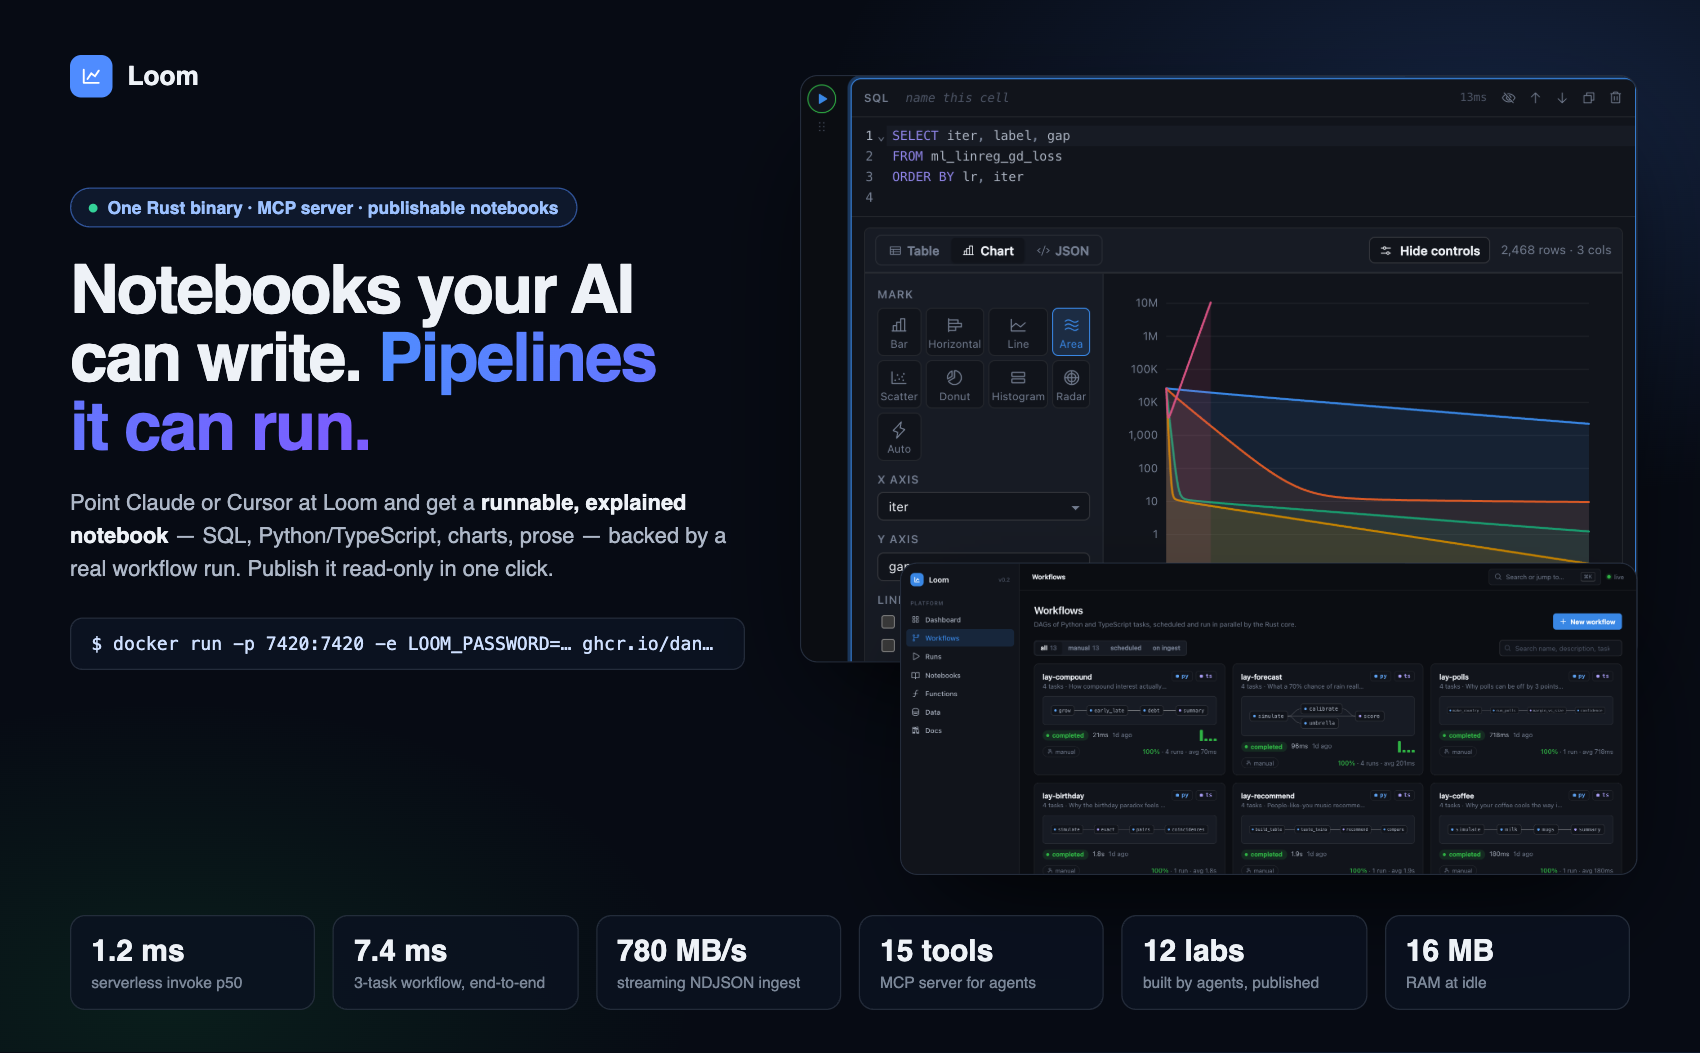
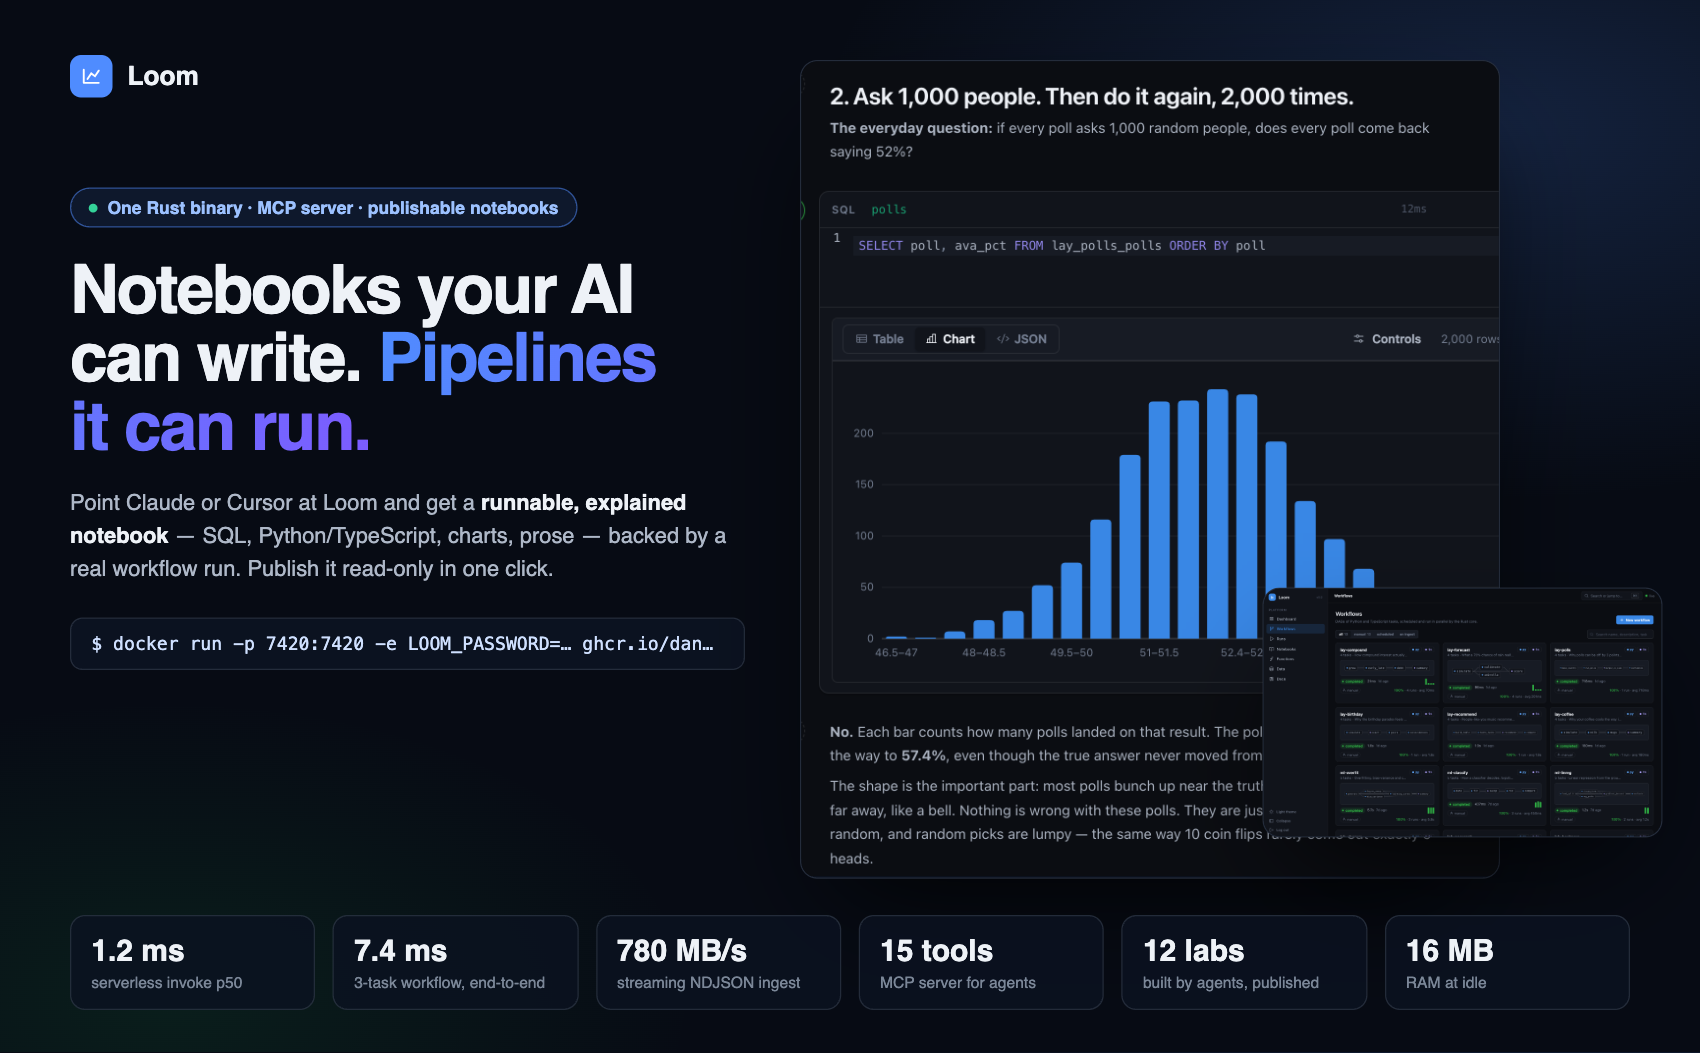
drop the gradient-descent area chart everywhere; hero/landing use the polls bell-curve chunk, README adds the compound-interest chunk

diff --git a/site/index.html b/site/index.html
@@ -264,8 +264,8 @@ footer .right{margin-left:auto;display:flex;gap:18px}
       <figcaption><b>Math → code → proof.</b> The backprop lab walks the chain rule in markdown, does the five steps in a Python cell, and checks ∂L/∂W against a finite difference — absolute error 0.</figcaption>
     </figure>
     <figure class="reveal">
-      <img src="https://raw.githubusercontent.com/DanielMcSheehy/rust-orchestrator/main/docs/screenshots/notebook-chart-controls.png" alt="A SQL cell over the gradient-descent loss table with the chart controls open: area mark, log scale, colour by learning rate, per-series colour swatches">
-      <figcaption><b>Every chart is live.</b> A SQL cell over the run's results; open the controls to switch marks, log-scale the y axis, colour by series, or add min/avg/max lines — the spec saves with the notebook.</figcaption>
+      <img src="https://raw.githubusercontent.com/DanielMcSheehy/rust-orchestrator/main/docs/screenshots/notebook-polls.png" alt="Polls lab: the everyday question, a SQL cell, a bell-curve histogram of 2,000 simulated polls, and the plain-English answer">
+      <figcaption><b>Question → chart → answer.</b> The polls lab asks "does every poll say 52%?", runs one SQL cell over 2,000 simulated polls, and explains the bell curve in plain English.</figcaption>
     </figure>
   </div>
   <p class="lead" style="margin-top:28px">No matplotlib, no image uploads — charts are the console's own SVG renderer over the data grid behind each cell. Publish the notebook and the outputs ship with it, read-only.</p>

diff --git a/README.md b/README.md
@@ -52,7 +52,7 @@ with SQL, and charted in a teaching notebook.
 | **PageRank on a synthetic web** | Power iteration, damping sweep, link farms losing to real authority |
 | **Backprop from scratch** | A 2→36→36→1 MLP in TypeScript, chain rule written out, decision-boundary snapshots per epoch |
 
-![Gradient descent loss curves — five learning rates, one of them diverging](docs/screenshots/notebook-gradient-descent.png)
+![Compound-interest lab — the everyday question, the SQL, a stacked area of what you put in vs growth, and the answer in plain English](docs/screenshots/notebook-compound.png)
 
 ![Notebook lab — training a neural net from scratch on two spirals: SQL, charts, and the math in markdown](docs/screenshots/notebook.png)
 
@@ -150,9 +150,9 @@ per-series colours — and the spec saves with the notebook.
 | --- | --- |
 | ![SQL over ingested datasets](docs/screenshots/data-query.png) | ![Serverless function playground](docs/screenshots/functions.png) |
 
-| Math → code → proof | Every chart is live |
+| Math → code → proof | Question → chart → answer |
 | --- | --- |
-| ![Backprop lab — the chain rule written out in markdown, the five steps in a Python cell, and the table checking the analytic gradient against a finite difference](docs/screenshots/notebook-chain-rule.png) | ![Linear-regression lab — a SQL cell over the run's loss table with the chart controls open: area mark, log scale, colour by learning rate](docs/screenshots/notebook-chart-controls.png) |
+| ![Backprop lab — the chain rule written out in markdown, the five steps in a Python cell, and the table checking the analytic gradient against a finite difference](docs/screenshots/notebook-chain-rule.png) | ![Polls lab — 2,000 simulated polls of 1,000 people form a bell curve around the true 52%](docs/screenshots/notebook-polls.png) |
 
 ## Architecture
 
